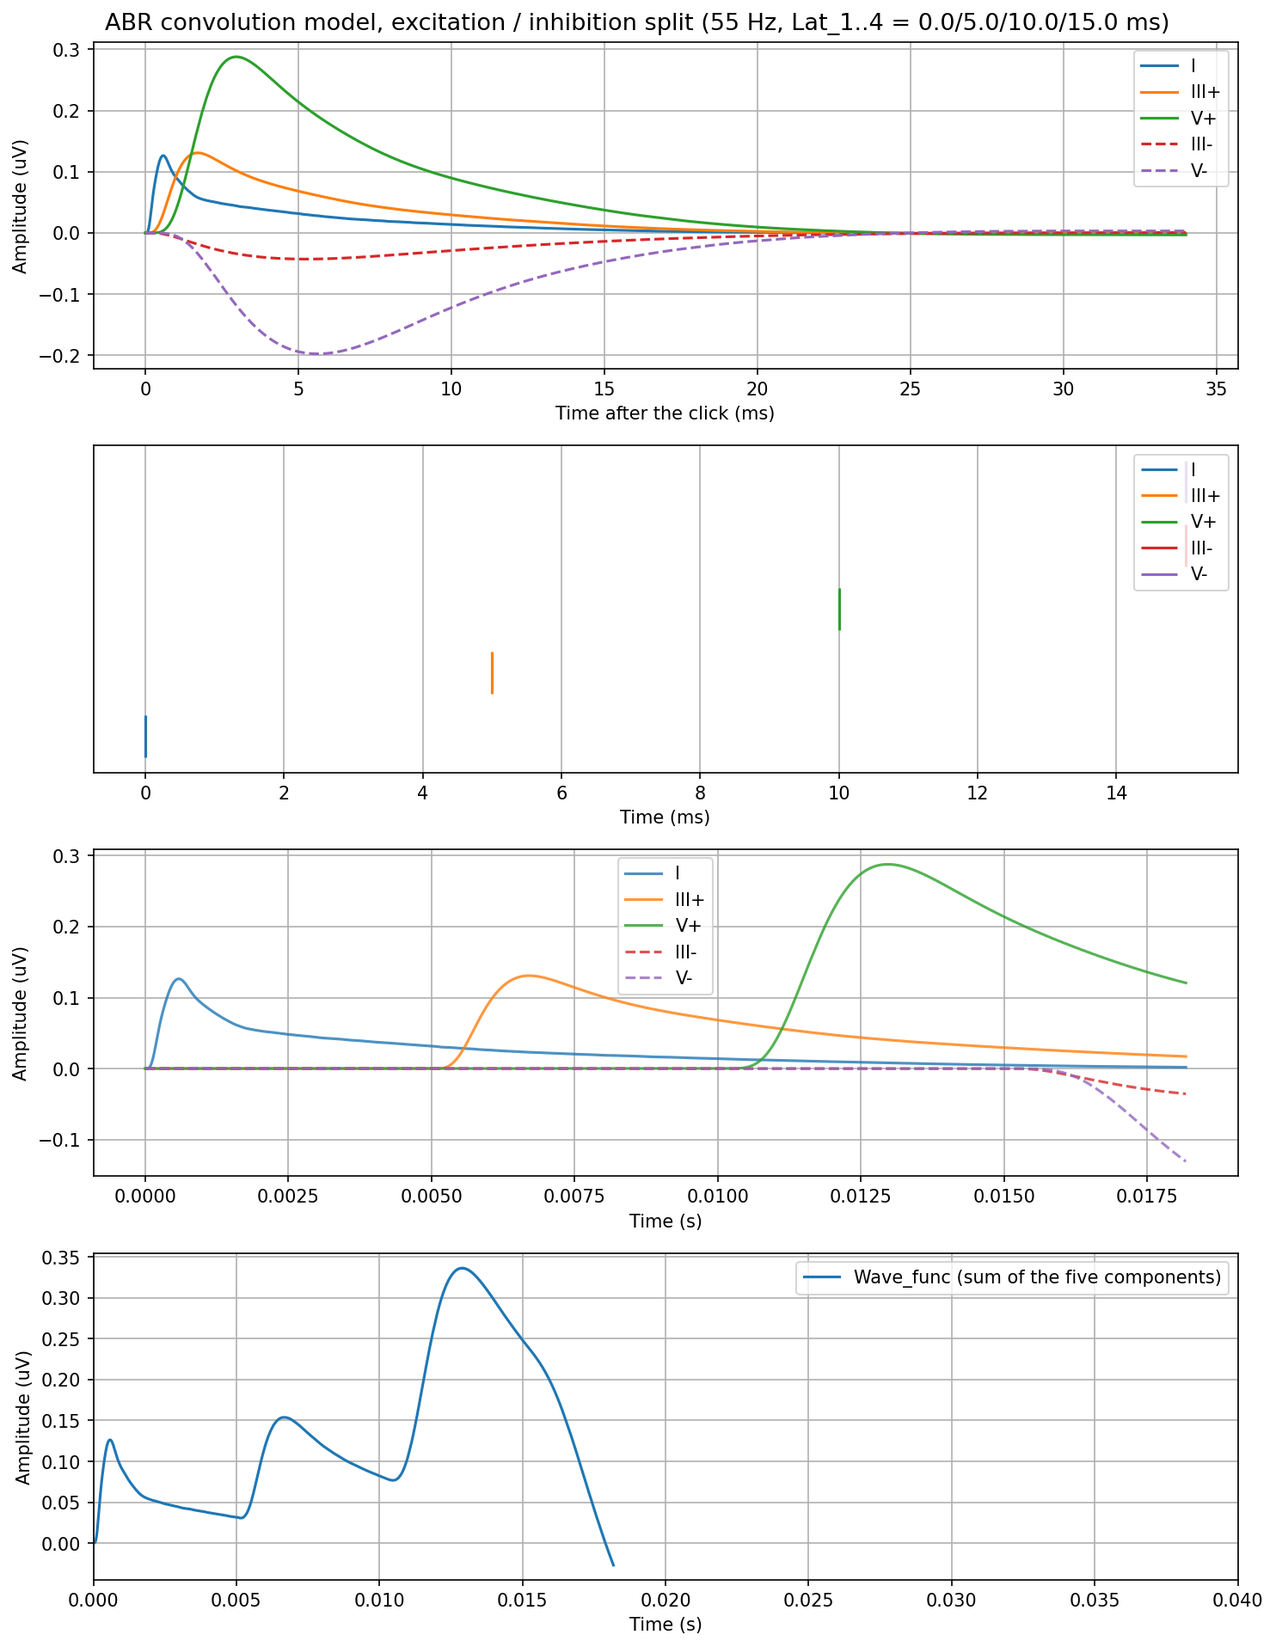
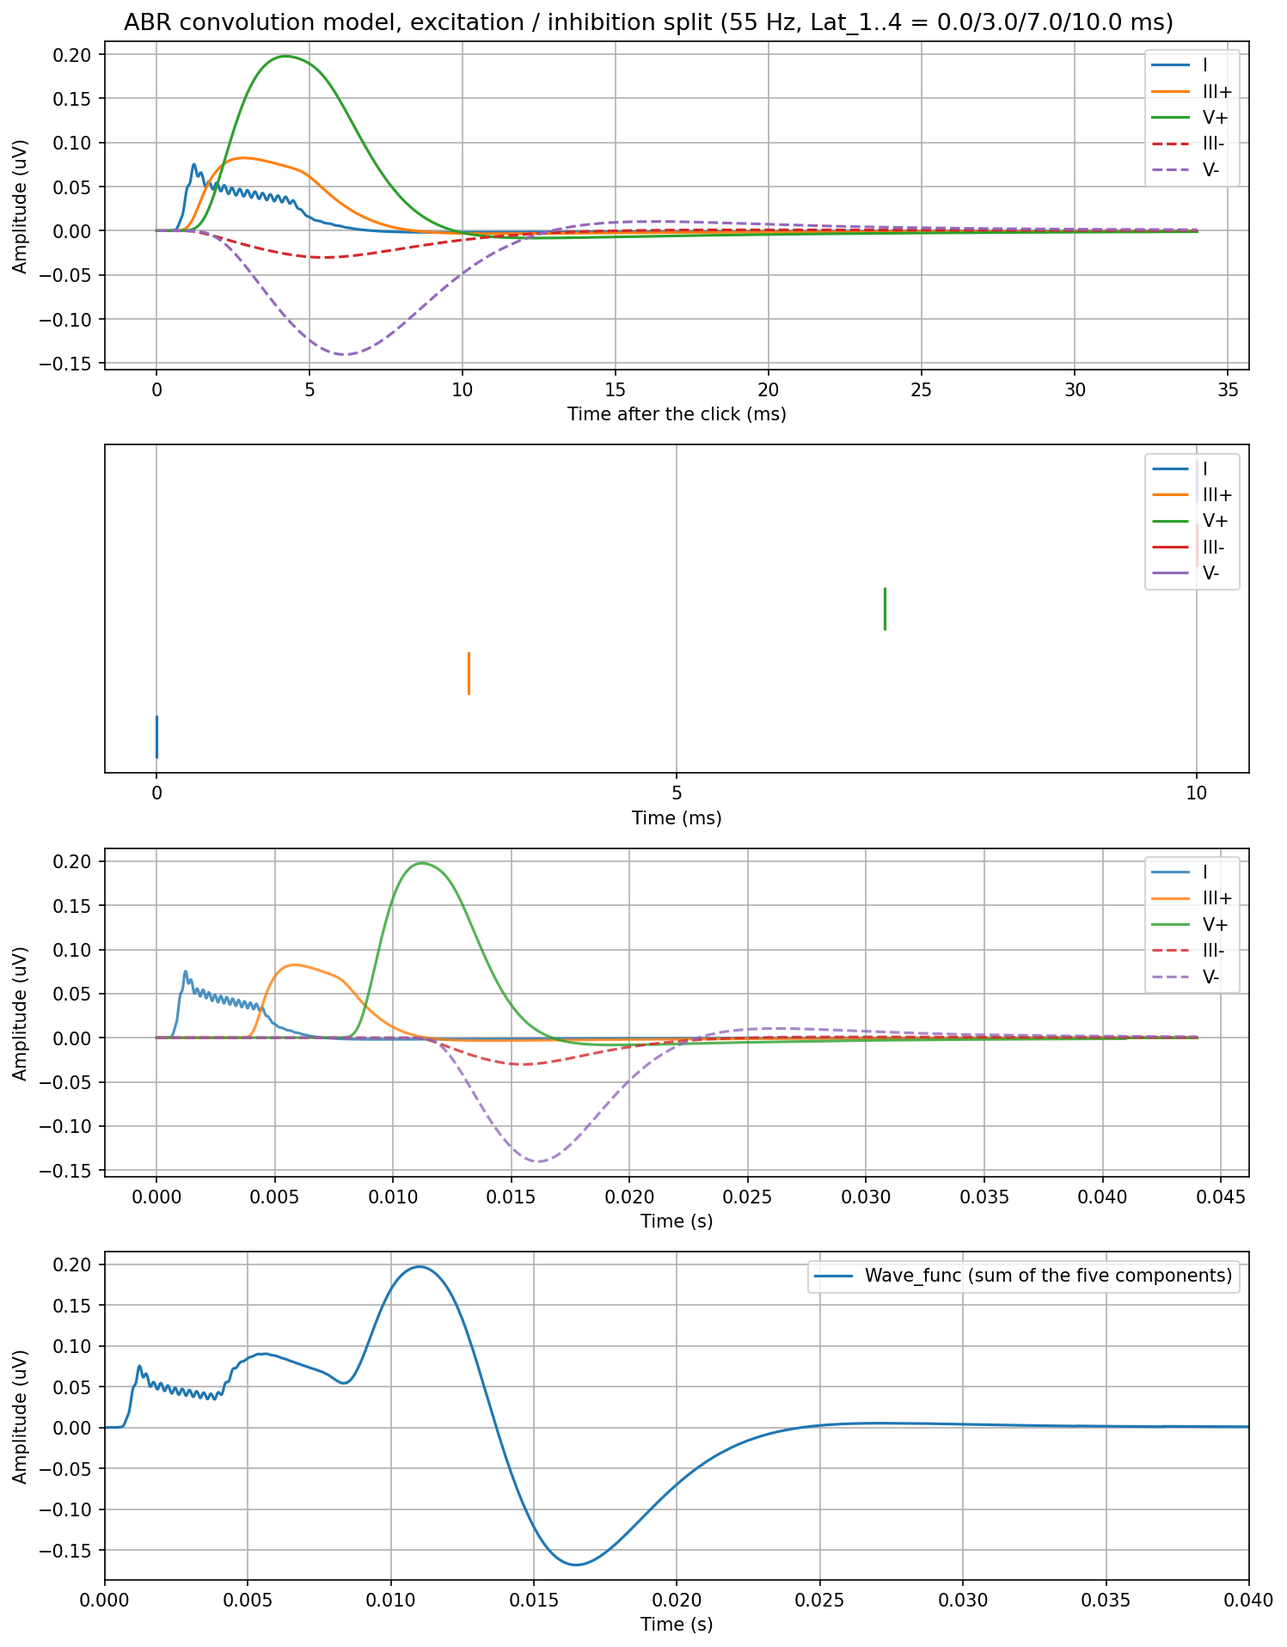
modifications (added chirp and pip stimulus)

diff --git a/ExampleSimulation.py b/ExampleSimulation.py
@@ -27,7 +27,8 @@ import io
 import time
 import contextlib
 import matplotlib.colors as mcolors
-from get_RAM_stims import get_RAM_stims, get_click_stim
+from matplotlib.ticker import MultipleLocator
+from get_RAM_stims import get_RAM_stims, get_click_stim, get_pip_chirp_stim
 from model2018 import model2018
 
 from fractions import Fraction
@@ -89,10 +90,11 @@ def calculate_EFR(output):
         print(f"Error calculating EFR: {e}")
         return np.nan, None, None, None, None
 
-def run_easy_model(carrier_freq=4000, poles_profile='Flat00', show_plots=True, save_results=True, stim='click'):
+def run_easy_model(carrier_freq=4000, poles_profile='Flat00', show_plots=False, save_results=False, stim='click',
+                   stim_kwargs=None):
     """
     Easy interface to run the model2018 and calculate EFR.
-    
+
     Parameters:
     -----------
     carrier_freq : float, optional
@@ -103,7 +105,12 @@ def run_easy_model(carrier_freq=4000, poles_profile='Flat00', show_plots=True, s
         Whether to show plots of results (default: True)
     save_results : bool, optional
         Whether to save results to MAT files (default: True)
-        
+    stim : str, optional
+        'click', 'pip', 'chirp' or anything else for the RAM stimulus (default: 'click')
+    stim_kwargs : dict or None, optional
+        Overrides of the arguments of get_click_stim (stim='click') or get_pip_chirp_stim (stim='pip'/'chirp'),
+        e.g. {'click_dur': 50e-6}, {'freq': 2000} or {'fMod': 300}. Ignored for the RAM stimulus (default: None)
+
     Returns:
     --------
     dict
@@ -131,8 +138,13 @@ def run_easy_model(carrier_freq=4000, poles_profile='Flat00', show_plots=True, s
     # Generate stimulus
     print("Generating RAM stimulus...")
     try:
+        kw = stim_kwargs or {}
         if stim == 'click':
-            stimulus = get_click_stim(fs, level=80, onset=0.03, dur=0.065)
+            stimulus = get_click_stim(fs, **{'level': 80, 'onset': 0.03, 'dur': 0.065, **kw})
+        elif stim in ('pip', 'chirp'):          ##Tone pip: very short bust of sound at one fixed frequency
+            stimulus = get_pip_chirp_stim(fs, **{'kind': stim, 'n_stim': 1, 'level': 70, 'freq': 4000,
+                                                 'f_sweep': (100, 8000), 'method': 'linear', 'fMod': 200,
+                                                 'ramp_dur': 1e-3, 'onset': 0.03, 'dur': 0.065, **kw})
         else:
             stimulus = get_RAM_stims(fs, fRAM)
 
@@ -337,7 +349,8 @@ def abr_convolution_split(output, click_onset=0.03, fMod=110, window=None, dur=N
         output (default None)
     dur : float or None, optional
         Duration of the delta train and of the convolved output [s]. None = one period (1/fMod): a single
-        click, so each component is generated once and the output stops after one period (default None)
+        click, so each component is generated once and the output stops after one period. With single_click=True,
+        None = the largest latency plus the length of the unit responses, so every component runs out (default None)
     latencies : tuple of 4 floats, optional
         (Lat_1, Lat_2, Lat_3, Lat_4) [s]: delay of wave I, excitatory III, excitatory V and of both
         inhibitory parts (III and V together). Wave I and the excitatory parts keep their natural timing and
@@ -376,12 +389,16 @@ def abr_convolution_split(output, click_onset=0.03, fMod=110, window=None, dur=N
     for name, w in split.items():
         base = np.mean(w[max(i_click_in - n_edge, 0):max(i_click_in, 1)])
         waves[name] = sps.resample_poly(w - base, up, 1)
+    i_click = i_click_in * up                           # sample of the click after upsampling
+    L_ur = int(round(window * fs)) if window is not None else len(waves['I']) - i_click - n_edge * up
     if dur is None:
-        dur = 1 / fMod                                  # one period: a single click, each component generated once
+        if single_click:
+            dur = max(latencies) + L_ur / fs            # long enough for the latest component to run out
+        else:
+            dur = 1 / fMod                              # one period: each component generated once
     n = int(round(dur * fs))
     t = np.arange(n) / fs
     L_unit = int(round(fs / fMod))                      # one period in samples (whole number after upsampling)
-    i_click = i_click_in * up                           # sample of the click after upsampling
 
     # delta train over the whole signal: 1 at the start of every click, 0 elsewhere
     delta = np.zeros(n)
@@ -394,7 +411,6 @@ def abr_convolution_split(output, click_onset=0.03, fMod=110, window=None, dur=N
     # unit responses: response of each component to the click, from the click onset
     unit_responses = {}
     for name, w in waves.items():
-        L_ur = len(w) - i_click - n_edge * up if window is None else int(round(window * fs))
         if L_ur <= 0 or i_click + L_ur > len(w):
             raise ValueError(f'click_onset + window = {(i_click + L_ur) / fs * 1e3:.1f} ms does not fit in the '
                              f'{len(w) / fs * 1e3:.1f} ms of model output; lower window or make the click epoch longer')
@@ -462,6 +478,11 @@ def abr_convolution_split(output, click_onset=0.03, fMod=110, window=None, dur=N
         axes[3].legend()
         axes[3].grid(True)
 
+        for ax in axes[:2]:                             # graphs 1 and 2 are in ms
+            ax.xaxis.set_major_locator(MultipleLocator(5))
+        for ax in axes[2:]:                             # graphs 3 and 4 are in s
+            ax.xaxis.set_major_locator(MultipleLocator(0.005))
+
         plt.tight_layout()
         plt.savefig('abr_convolution_split.png', dpi=150, bbox_inches='tight')
         plt.show()
@@ -471,93 +492,100 @@ def abr_convolution_split(output, click_onset=0.03, fMod=110, window=None, dur=N
             'rate_functions': rate_functions, 'convolved': convolved, 'total': total,
             'latencies': tuple(latencies), 'fs': fs}
 
-def frequency_runner(output, freqs=None, latencies=(0.0, 1.7e-3, 4.3e-3, 7e-3), click_onset=0.03, dur=0.04,
-                     show_plots=True):
+def frequency_runner(stim='click', values=None, latencies=(0.0, 1.7e-3, 4.3e-3, 7e-3), click_onset=0.03, dur=0.04,
+                     poles_profile='Flat00', show_plots=True):
     """
-    Runs abr_convolution_split for every click rate in freqs and overlays the resulting Wave_func(t) curves
-    (x = time, y = amplitude), one curve per rate. The colour gets darker with increasing rate.
-    Every curve is the response to ONE click (single_click=True): the rate only enters through the latencies
-    you give per rate, and each response decays over the whole of dur, also past 1/rate. With the same
-    latencies for every rate all curves are identical, so give at least one latency per rate (sequence or
-    function of the rate).
+    Runs run_easy_model once for every entry of values, puts each model output through abr_convolution_split
+    and overlays the resulting Wave_func(t) curves (x = time, y = amplitude), one curve per value. The colour
+    gets darker with increasing value. What the value changes depends on the stimulus:
+    - 'click' (duration based): the click duration [s] (click_dur of get_click_stim)
+    - 'pip' / 'chirp' (frequency based): the modulation frequency fMod [Hz] (fMod of get_pip_chirp_stim); the
+      stimulus lasts one period, 1/fMod, so 200 Hz = 5 ms and a higher fMod gives a shorter pip / chirp
+    Every curve is the response to ONE stimulus (single_click=True) over the same dur, with the same latencies
+    for every value, so the curves differ only through the stimulus. Each value is a full model run, so it is slow.
 
-    Example: frequency_runner(results['output'], latencies=(0, [1e-3]*22, lambda f: 4e-3 + f * 1e-5, 7e-3))
+    Example: frequency_runner('click', np.linspace(20e-6, 160e-6, 8))
+             frequency_runner('pip', np.linspace(100, 400, 7))
 
     Parameters:
     -----------
-    output : ModelOutput or list containing it
-        model2018 output for ONE click (as for abr_convolution_split)
-    freqs : array-like or None, optional
-        Click rates [Hz]. None = 22 rates from 5 to 110 Hz in steps of 5 Hz (default None)
-    latencies : tuple of 4, optional
+    stim : str, optional
+        'click', 'pip' or 'chirp' (default 'click')
+    values : array-like or None, optional
+        Values to run [s for 'click', Hz otherwise], e.g. np.linspace(...). None = 8 click durations from 20 to
+        160 us ('click') or 7 fMod values from 100 to 400 Hz ('pip', 'chirp'). With the 30 ms onset and the 65 ms
+        window of run_easy_model, fMod must be at least ~29 Hz (default None)
+    latencies : tuple of 4 floats, optional
         (Lat_1, Lat_2, Lat_3, Lat_4) [s] = wave I, excitatory III, excitatory V, inhibitory III and V, the same
-        meaning as in abr_convolution_split. Each entry is set separately and can be
-        - a number: the same latency for all rates,
-        - a sequence with one latency per rate in freqs,
-        - a function f -> latency [s]: the latency as a function of the rate.
+        meaning as in abr_convolution_split; the same for every value
     click_onset : float, optional
-        Time of the click in the stimulus [s] (default 0.03)
+        Time of the stimulus in the model input [s]; must equal the onset in run_easy_model (default 0.03)
     dur : float, optional
-        Duration of every curve [s]; the same for all rates, so the curves are comparable (default 0.04)
+        Duration of every curve [s]; the same for all values, so the curves are comparable (default 0.04)
+    poles_profile : str, optional
+        Name of poles profile folder in ./Poles/ directory (default 'Flat00')
     show_plots : bool, optional
-        Plot the curves and save them as 'frequency_runner.png' (default True)
+        Plot the curves and save them as 'frequency_runner_<stim>.png' (default True)
 
     Returns:
     --------
-    dict with 'freqs' [Hz], 'latencies' (len(freqs) x 4 array [s]), 'results' (the abr_convolution_split
-    dict of every rate), 'curves' (len(freqs) x N array of Wave_func [V]) and 't' (time axis [s]). The
-    curves are interpolated onto a common 1e5 Hz grid; 'results' holds the originals at their own rates
+    dict with 'stim', 'values', 'results' (the abr_convolution_split dict of every value), 'curves'
+    (len(values) x N array of Wave_func [V]) and 't' (time axis [s])
     """
 
-    freqs = np.linspace(5, 110, 22) if freqs is None else np.asarray(freqs, dtype=float)
-
-    # one latency per rate and component
-    lat = np.zeros((len(freqs), 4))
-    for k, spec in enumerate(latencies):
-        if callable(spec):
-            lat[:, k] = [spec(f) for f in freqs]
-        elif np.ndim(spec) == 0:
-            lat[:, k] = spec
-        else:
-            if len(spec) != len(freqs):
-                raise ValueError(f'latency {k + 1} has {len(spec)} values, expected one per rate ({len(freqs)})')
-            lat[:, k] = spec
+    if stim == 'click':                                         # duration based
+        values = np.linspace(20e-6, 160e-6, 8) if values is None else np.asarray(values, dtype=float)
+        stim_kwargs = [{'click_dur': v} for v in values]
+        name, unit, scale = 'Click duration', 'us', 1e6
+    elif stim in ('pip', 'chirp'):                              # frequency based
+        values = np.linspace(100, 400, 7) if values is None else np.asarray(values, dtype=float)
+        stim_kwargs = [{'fMod': v} for v in values]
+        name, unit, scale = 'fMod', 'Hz', 1
+    else:
+        raise ValueError("stim must be 'click', 'pip' or 'chirp'")
 
     results = []
-    for f, l in zip(freqs, lat):
-        with contextlib.redirect_stdout(io.StringIO()):         # abr_convolution_split prints a line per component
-            results.append(abr_convolution_split(output, click_onset=click_onset, fMod=f, dur=dur,
-                                                 latencies=tuple(l), show_plots=False, single_click=True))
+    for i, (v, kw) in enumerate(zip(values, stim_kwargs)):
+        log = io.StringIO()
+        with contextlib.redirect_stdout(log):                   # both functions print a lot
+            run = run_easy_model(poles_profile=poles_profile, show_plots=False, save_results=False,
+                                 stim=stim, stim_kwargs=kw)
+            if run is not None:
+                results.append(abr_convolution_split(run['output'], click_onset=click_onset, dur=dur,
+                                                     latencies=latencies, show_plots=False, single_click=True))
+        if run is None:
+            print(log.getvalue())
+            raise RuntimeError(f'run_easy_model failed for {name} = {v * scale:g} {unit}')
+        print(f"[{i + 1}/{len(values)}] {name} = {v * scale:g} {unit} done")
 
     if show_plots:
         fig, ax = plt.subplots(figsize=(11, 6))
         cmap = mcolors.LinearSegmentedColormap.from_list('shade', plt.cm.Blues(np.linspace(0.25, 1.0, 256)))
-        norm = mcolors.Normalize(freqs.min(), freqs.max())
-        for f, res in zip(freqs, results):
-            ax.plot(res['total'][0] * 1e3, res['total'][1] * 1e6, color=cmap(norm(f)), linewidth=1.2)
-        fig.colorbar(plt.cm.ScalarMappable(norm=norm, cmap=cmap), ax=ax, label='Click rate (Hz)')
-        ax.set_xlim(0, dur * 1e3)
+        norm = mcolors.Normalize(values.min() * scale, values.max() * scale)
+        for v, res in zip(values, results):
+            ax.plot(res['total'][0] * 1e3, res['total'][1] * 1e6, color=cmap(norm(v * scale)), linewidth=1.2)
+        fig.colorbar(plt.cm.ScalarMappable(norm=norm, cmap=cmap), ax=ax, label=f'{name} ({unit})')
+        #ax.set_xlim(0, dur * 1e3)
         ax.set_xlabel('Time (ms)')
         ax.set_ylabel('Amplitude (uV)')
-        ax.set_title('Wave_func for different click rates')
+        ax.set_title(f'Wave function for different {name} values with stimulus type: {stim}')
         ax.grid(True)
         plt.tight_layout()
-        plt.savefig('frequency_runner.png', dpi=150, bbox_inches='tight')
+        plt.savefig(f'frequency_runner_{stim}.png', dpi=150, bbox_inches='tight')
         plt.show()
-        print("✓ Plot saved as 'frequency_runner.png'")
+        print(f"✓ Plot saved as 'frequency_runner_{stim}.png'")
 
-    # every rate has its own upsampled sampling rate (abr_convolution_split), so the curves have different
-    # lengths; put them on one common time grid (1e5 Hz) to stack them
-    t = np.arange(int(round(dur * 1e5))) / 1e5
-    curves = np.array([np.interp(t, r['total'][0], r['total'][1]) for r in results])
-    return {'freqs': freqs, 'latencies': lat, 'results': results, 'curves': curves, 't': t}
+    # all runs have the same sampling rate and dur, so the curves stack directly
+    t = results[0]['total'][0]
+    curves = np.array([r['total'][1] for r in results])
+    return {'stim': stim, 'values': values, 'results': results, 'curves': curves, 't': t}
 
 if __name__ == "__main__":
     # Example usage with different configurations
 
     print("Running easy model with default parameters...")
     start_time = time.perf_counter()
-    results = run_easy_model(stim='click')
+    results = run_easy_model(stim='pip')
     elapsed_time = time.perf_counter() - start_time
     print(f"\nIteration running time: {elapsed_time:.3f} s")
 
@@ -571,7 +599,9 @@ if __name__ == "__main__":
         print("\nModel run failed. Please check the error messages above.")
 
     if results is not None:
-        abr_results = abr_convolution_split(results['output'], click_onset=0.03, fMod=55, latencies=(0.0, 5.0e-3, 10.0e-3, 15.0e-3))
-        frequency_runner(results['output'], freqs=np.linspace(5, 110, 22),
-                         latencies=(0.0, lambda f: 1.7e-3 + f * 4e-5, lambda f: 4.3e-3 + f * 8e-5, 7e-3),
-                         click_onset=0.03, dur=0.04, show_plots=True)
+        abr_results = abr_convolution_split(results['output'], click_onset=0.03, fMod=55, latencies=(0.0, 3.0e-3, 7.0e-3, 10.0e-3),
+                                          single_click=True)
+        frequency_runner('RAM', np.linspace(100, 400, 7),
+                         latencies=(0.0, 5e-3, 10e-3, 15e-3),
+                         click_onset=0.03, dur=0.1, show_plots=True)
+        

diff --git a/get_RAM_stims.py b/get_RAM_stims.py
@@ -145,10 +145,81 @@ def get_click_stim(fs, n_stim=1, level=70, click_dur=100e-6, onset=0.005, dur=0.
     return stim
 
 
+def get_pip_chirp_stim(fs, kind='pip', n_stim=1, level=70, freq=4000, f_sweep=(100, 8000),          ##Tone pip: very short bust of sound at one fixed frequency
+                       method='linear', fMod=0, ramp_dur=1e-3, onset=0.005, dur=0.025,       ##
+                       plot=False):
+    """
+    Tone pip ('pip') or chirp ('chirp') stimulus, same level convention as get_click_stim
+    (peak amplitude = peak of a sine with rms level `level` dBSPL).
+
+    freq    : pip frequency [Hz]
+    f_sweep : (f_start, f_end) of the chirp [Hz]
+    method  : chirp sweep, 'linear' or 'logarithmic' (scipy.signal.chirp)
+    fMod    : modulation (envelope) frequency [Hz]: the pip / chirp lasts one period of it, 1/fMod
+              (200 Hz = 5 ms), so a higher fMod gives a shorter stimulus
+    ramp_dur: cos^2 on/off ramp [s] (at most half the stimulus)
+    """
+
+    p0 = 20e-6                                # Reference sound pressure level [Pa]
+    amp = p0 * 10**(level/20) * np.sqrt(2)    # peak amplitude [Pa]
+
+    n = round(dur * fs)
+    tVec = np.arange(n) / fs
+    i0 = round(onset * fs)
+    nstim = round(fs / fMod)                  # one period of the modulation
+    nramp = min(round(ramp_dur * fs), nstim // 2)
+    if i0 + nstim > n:
+        raise ValueError(f"fMod = {fMod} Hz gives a {1000 / fMod:.1f} ms stimulus, onset + that exceeds dur "
+                         f"({dur * 1000:.0f} ms): raise fMod or dur")
+
+    t = np.arange(nstim) / fs
+    if kind == 'pip':
+        wave = np.sin(2 * np.pi * freq * t)
+    elif kind == 'chirp':
+        wave = signal.chirp(t, f0=f_sweep[0], t1=t[-1], f1=f_sweep[1], method=method, phi=-90)
+    else:
+        raise ValueError("kind must be 'pip' or 'chirp'")
+
+    # cos^2 onset/offset ramps
+    env = np.ones(nstim)
+    ramp = np.sin(np.linspace(0, np.pi / 2, nramp))**2
+    env[:nramp] = ramp
+    env[nstim - nramp:] = ramp[::-1]
+
+    stim = np.zeros((n_stim, n))
+    stim[:, i0:i0 + nstim] = amp * env * wave
+
+    if plot:
+        _, axes = plt.subplots(2, 1, figsize=(10, 7))
+
+        axes[0].plot(tVec * 1000, stim[0])
+        axes[0].set_xlabel('time [ms]')
+        axes[0].set_ylabel('Pa')
+        axes[0].set_title('Tone pip' if kind == 'pip' else 'Chirp')
+        axes[0].grid(True, alpha=0.3)
+
+        nfft = 2**14
+        spec = np.abs(np.fft.rfft(stim[0], nfft))
+        axes[1].plot(np.fft.rfftfreq(nfft, 1 / fs), 20 * np.log10(spec / spec.max() + 1e-12))
+        axes[1].set_xlim(0, 12000)
+        axes[1].set_ylim(-80, 5)
+        axes[1].set_xlabel('frequency [Hz]')
+        axes[1].set_ylabel('magnitude [dB re max]')
+        axes[1].grid(True, alpha=0.3)
+
+        plt.tight_layout()
+        plt.show()
+
+    return stim
+
+
 if __name__ == "__main__":
     fs = 44100
     fRAM = np.array([4000])
     stim = get_RAM_stims(fs, fRAM, plot=True)
+    stim2 = get_click_stim(fs, plot=True)
+    stim3 = get_pip_chirp_stim(fs, plot=True)
+    stim4 = get_pip_chirp_stim(fs, kind = 'chirp', plot=True)
     print(f"Generated {stim.shape[0]} RAM stimuli with {stim.shape[1]} samples each")
     print(f"Sampling frequency: {fs} Hz")
     print(f"Carrier frequencies: {fRAM} Hz")

diff --git a/ic_cn2018.py b/ic_cn2018.py
@@ -19,7 +19,7 @@ def cochlearNuclei(anfH,anfM,anfL,numH,numM,numL,fs):
 
     Acn=1.5;
     Scn=0.6;
-    inhibition_delay=int(round(1e-2*fs));
+    inhibition_delay=int(round(1e-2*fs));   #Specify 10 ms
     Tex=0.5e-3;                             #smoothed excitatory copy
     Tin=2e-3;                               #smoothed inhibitory copy
 
@@ -45,6 +45,10 @@ def cochlearNuclei(anfH,anfM,anfL,numH,numM,numL,fs):
     cn=Acn*(signal.lfilter(bEx,aEx,summedAN,axis=0)-(Scn*signal.lfilter(bIncn,aIncn,delayed_inhibition,axis=0)))
     return cn,summedAN  ##SummedAN is wave I, cn is cochlear nuclei these are called in model 2018 to create wave I and III
 
+###The filter equation takes as input summedAN, convolves it with an alpha function filter.
+##rise, peak, decay.
+##
+
 ##standard          
 def inferiorColliculus(cn,fs):
     size=len(cn[0,:])
@@ -69,9 +73,11 @@ def inferiorColliculus(cn,fs):
     bIncn = 1.0/(m+1)**2*np.array([1, 2, 1]); # numerator
     aIncn = np.array([1, -2*a, a**2]); # denominator
 
-    ic=Aic*(signal.lfilter(bEx,aEx,cn,axis=0)-Sic*signal.lfilter(bIncn,aIncn,delayed_inhibition,axis=0)/2)
+    ic=Aic*(signal.lfilter(bEx,aEx,cn,axis=0)-Sic*signal.lfilter(bIncn,aIncn,delayed_inhibition,axis=0)/2) ##output is built from CN input, not summedAN.
     return ic
 
+
+##Positive and Negative component separate.
 def splitNuclei(summedAN,fs,cn=None,ic=None):
     
     Acn=1.5;

diff --git a/auditory_nerve2018.py b/auditory_nerve2018.py
@@ -162,3 +162,5 @@ def auditory_nerve_fiber(Vm,fs,spont,r1=r1,x=x,M=M,M2=M2,tCa=tCa,ss=ss):  ##reas
         if i>=zero_time:                        ##only start recording once the settling part is done
             solution[i-zero_time,:]=firing      
     return solution                             ## Output shape is t_N x 401
+
+
